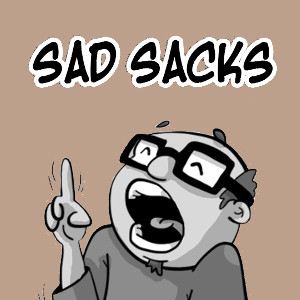
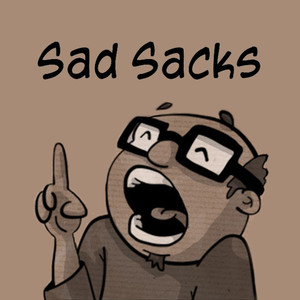
Update cover of Sad Sacks comic
http://johnnylarocque.com/sadsacks/images/comic/sad-sacks-s01e29b.jpg

diff --git a/src/Comics/SadSacks.cpp b/src/Comics/SadSacks.cpp
@@ -16,7 +16,7 @@ SadSacks::SadSacks(QObject *parent) :
 {
     m_info.id             = QString("sadsacks");
     m_info.name           = QString("Sad Sacks");
-    m_info.color          = QColor(188, 160, 139);
+    m_info.color          = QColor(167, 139, 118);
     m_info.authors        = QStringList() << "James \"Wiz\" Wallace" << "Johnny \"Wasabi\" Larocque";
     m_info.homepage       = QUrl("http://www.sadsacks.ca/");
     m_info.country        = QLocale::Canada;
